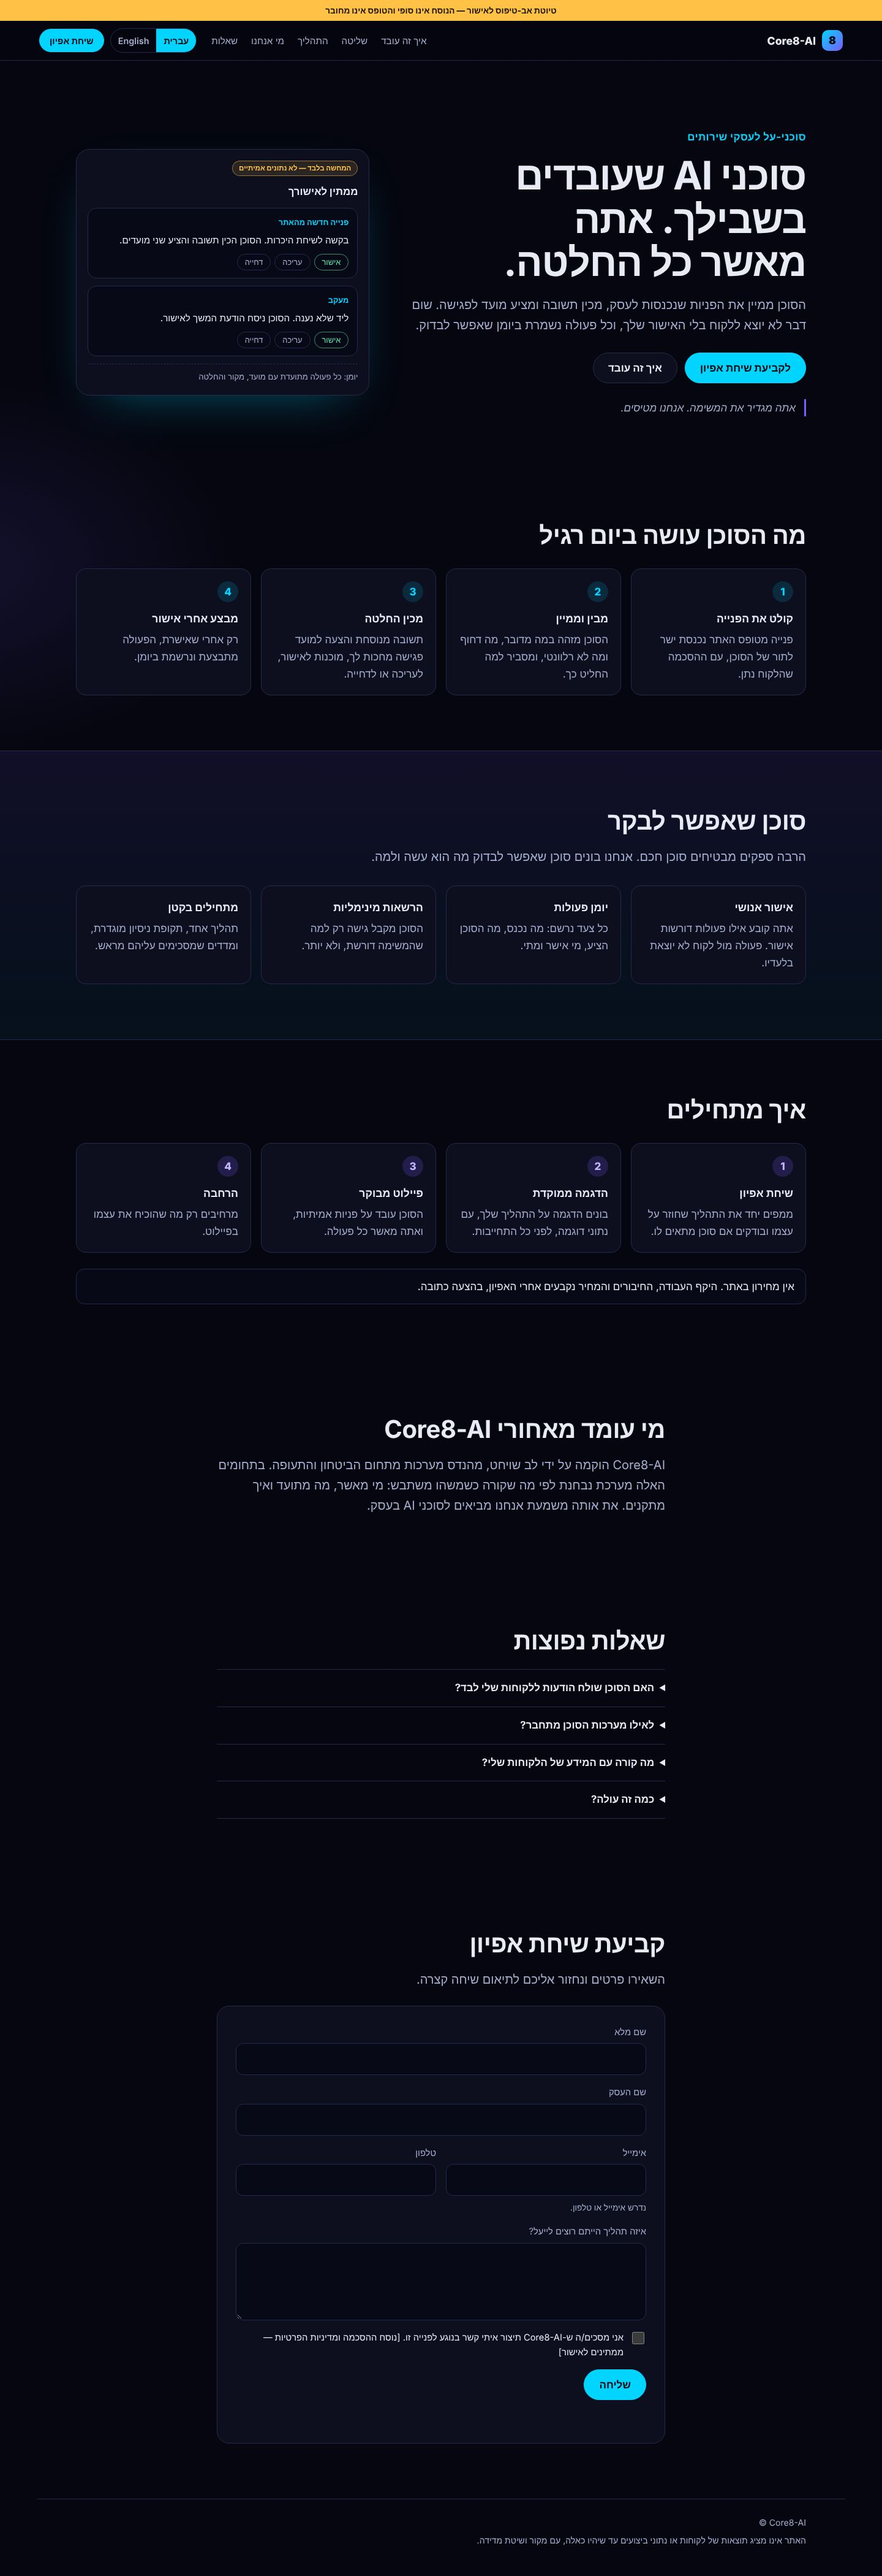
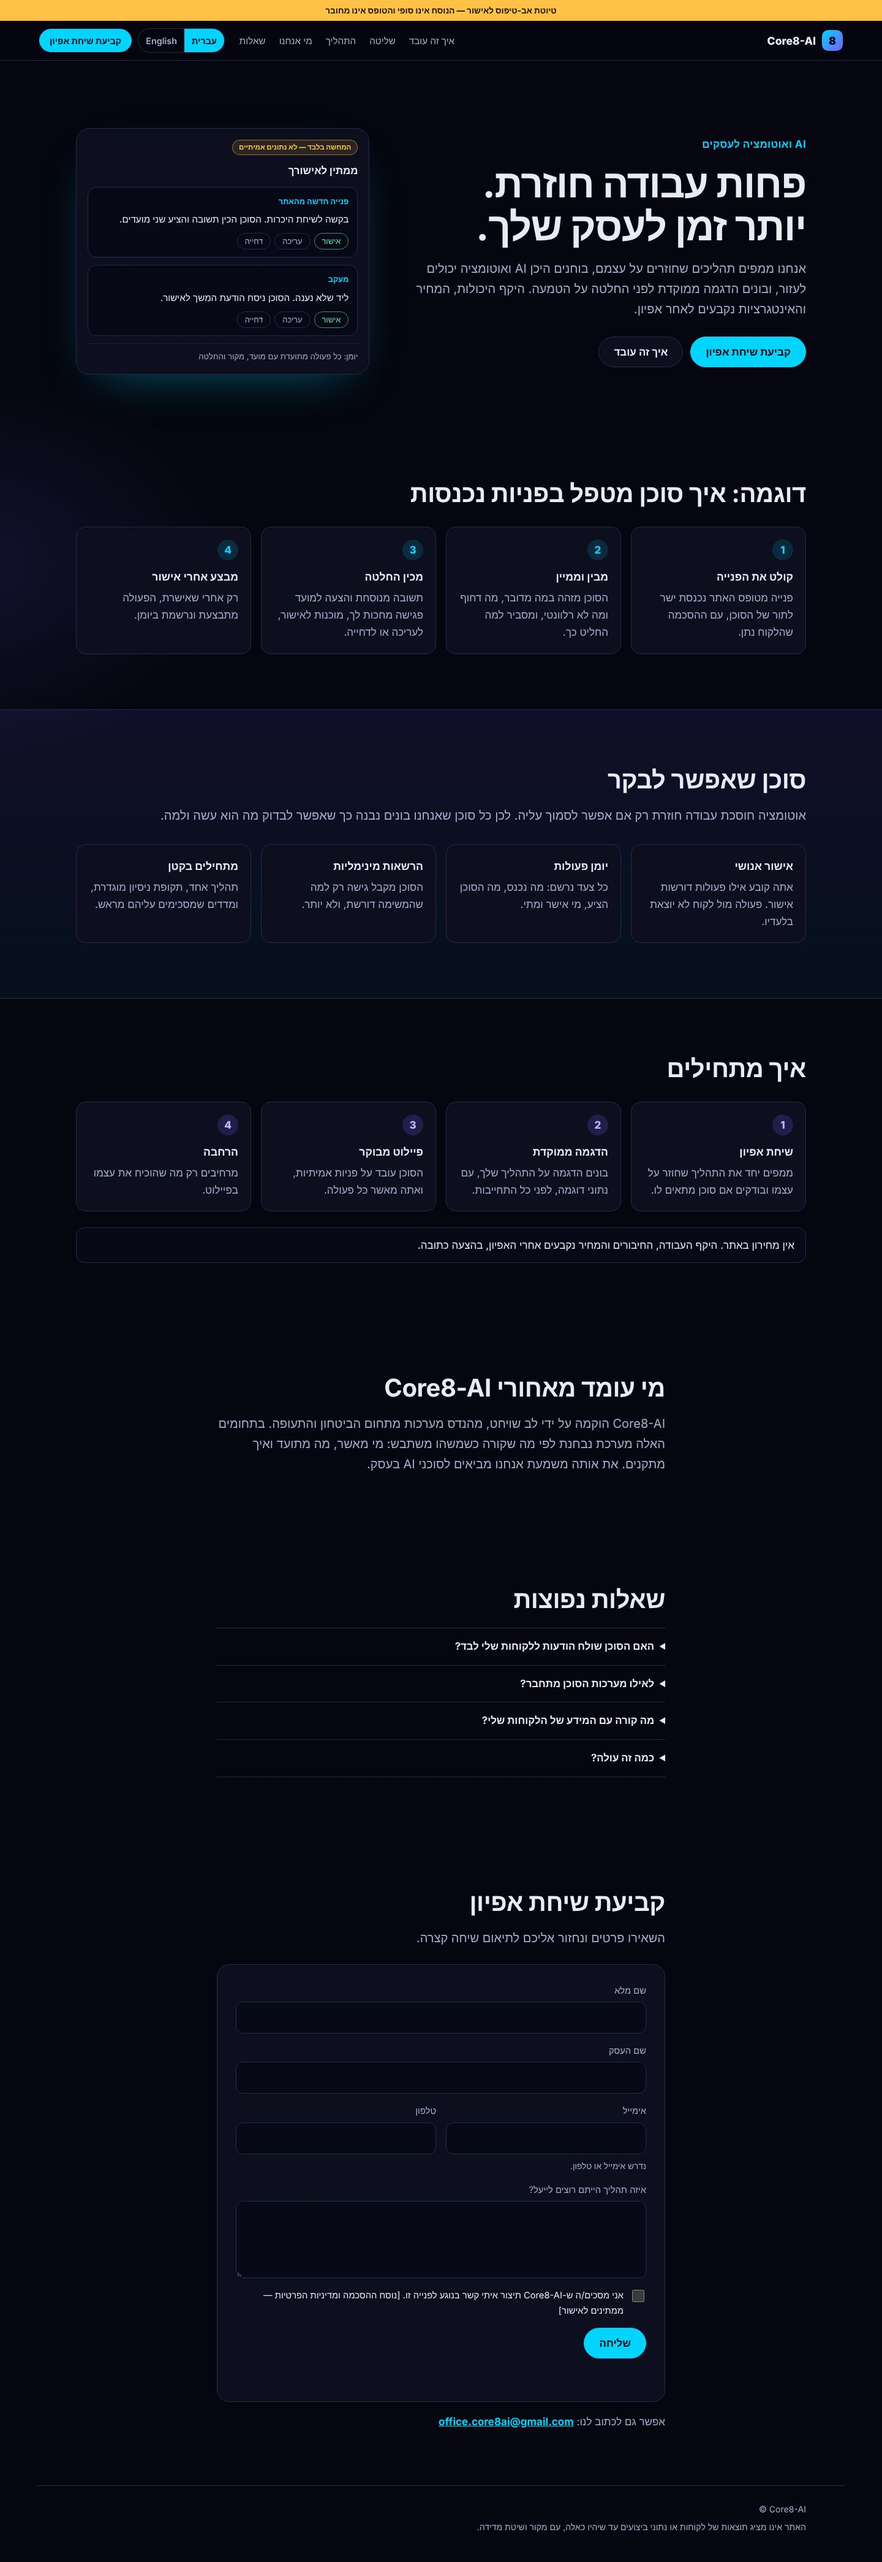
Landing prototype: use brand-brief headline and copy; add business email
Lev chose the docs/LEV_CORE8_BRAND_BRIEF.md (PR #21) direction. The hero
headline, supporting copy and primary CTA are now verbatim from that brief in
Hebrew and English, enforced by a test. The flight-metaphor line is removed.

Adds the business contact email as a mailto link. No phone or WhatsApp link:
the number is being replaced.

Claude-Session: https://claude.ai/code/session_01MNK6JQcFkiwtTubTmpKXfj

diff --git a/apps/landing/content.js b/apps/landing/content.js
@@ -1,6 +1,8 @@
 /*
  * Core8-AI landing page - DRAFT copy, Hebrew (primary) and English.
- * Status: proposed by Claude for Lev's review. Not approved copy.
+ * Headline, supporting copy and primary CTA are verbatim from
+ * docs/LEV_CORE8_BRAND_BRIEF.md (PR #21), chosen by Lev (recorded in PR #32).
+ * The remaining sections are Claude's draft and still need Lev's review.
  * Rules applied (from Lev's recorded decisions and docs/LEV_CORE8_BRAND_BRIEF.md):
  * no prices, no figures or percentages, no "24/7", no guarantees, no client
  * names, no claims of live integrations or results.
@@ -14,32 +16,31 @@
   return {
     langs: { he: { dir: 'rtl', label: 'עברית' }, en: { dir: 'ltr', label: 'English' } },
     // Set by the owner before launch. Empty = the form stays in preview mode.
-    config: { formEndpoint: '', consentTextId: '' },
+    config: { formEndpoint: '', consentTextId: '', email: 'office.core8ai@gmail.com' },
     strings: {
       he: {
-        'meta.title': 'Core8-AI — סוכני AI שעובדים בשבילך. אתה מאשר.',
-        'meta.description': 'Core8-AI בונה סוכני AI לעסקי שירותים: מיון פניות, הכנת תשובות והצעת פגישות, עם אישור אנושי ותיעוד של כל פעולה.',
+        'meta.title': 'Core8-AI — פחות עבודה חוזרת. יותר זמן לעסק שלך.',
+        'meta.description': 'אנחנו ממפים תהליכים שחוזרים על עצמם, בוחנים היכן AI ואוטומציה יכולים לעזור, ובונים הדגמה ממוקדת לפני החלטה על הטמעה.',
         'draft.banner': 'טיוטת אב-טיפוס לאישור — הנוסח אינו סופי והטופס אינו מחובר',
-        'nav.how': 'איך זה עובד', 'nav.control': 'שליטה', 'nav.process': 'התהליך', 'nav.founder': 'מי אנחנו', 'nav.faq': 'שאלות', 'nav.cta': 'שיחת אפיון',
+        'nav.how': 'איך זה עובד', 'nav.control': 'שליטה', 'nav.process': 'התהליך', 'nav.founder': 'מי אנחנו', 'nav.faq': 'שאלות', 'nav.cta': 'קביעת שיחת אפיון',
         'skip': 'דילוג לתוכן',
-        'hero.eyebrow': 'סוכני-על לעסקי שירותים',
-        'hero.title': 'סוכני AI שעובדים בשבילך. אתה מאשר כל החלטה.',
-        'hero.lead': 'הסוכן ממיין את הפניות שנכנסות לעסק, מכין תשובה ומציע מועד לפגישה. שום דבר לא יוצא ללקוח בלי האישור שלך, וכל פעולה נשמרת ביומן שאפשר לבדוק.',
-        'hero.cta': 'לקביעת שיחת אפיון', 'hero.cta2': 'איך זה עובד',
-        'hero.mission': 'אתה מגדיר את המשימה. אנחנו מטיסים.',
+        'hero.eyebrow': 'AI ואוטומציה לעסקים',
+        'hero.title': 'פחות עבודה חוזרת. יותר זמן לעסק שלך.',
+        'hero.lead': 'אנחנו ממפים תהליכים שחוזרים על עצמם, בוחנים היכן AI ואוטומציה יכולים לעזור, ובונים הדגמה ממוקדת לפני החלטה על הטמעה. היקף היכולות, המחיר והאינטגרציות נקבעים לאחר אפיון.',
+        'hero.cta': 'קביעת שיחת אפיון', 'hero.cta2': 'איך זה עובד',
         'mock.label': 'המחשה בלבד — לא נתונים אמיתיים',
         'mock.title': 'ממתין לאישורך',
         'mock.item1.kind': 'פנייה חדשה מהאתר', 'mock.item1.text': 'בקשה לשיחת היכרות. הסוכן הכין תשובה והציע שני מועדים.',
         'mock.item2.kind': 'מעקב', 'mock.item2.text': 'ליד שלא נענה. הסוכן ניסח הודעת המשך לאישור.',
         'mock.approve': 'אישור', 'mock.edit': 'עריכה', 'mock.reject': 'דחייה',
         'mock.log': 'יומן: כל פעולה מתועדת עם מועד, מקור והחלטה',
-        'how.title': 'מה הסוכן עושה ביום רגיל',
+        'how.title': 'דוגמה: איך סוכן מטפל בפניות נכנסות',
         'how.1.t': 'קולט את הפנייה', 'how.1.d': 'פנייה מטופס האתר נכנסת ישר לתור של הסוכן, עם ההסכמה שהלקוח נתן.',
         'how.2.t': 'מבין וממיין', 'how.2.d': 'הסוכן מזהה במה מדובר, מה דחוף ומה לא רלוונטי, ומסביר למה החליט כך.',
         'how.3.t': 'מכין החלטה', 'how.3.d': 'תשובה מנוסחת והצעה למועד פגישה מחכות לך, מוכנות לאישור, לעריכה או לדחייה.',
         'how.4.t': 'מבצע אחרי אישור', 'how.4.d': 'רק אחרי שאישרת, הפעולה מתבצעת ונרשמת ביומן.',
         'control.title': 'סוכן שאפשר לבקר',
-        'control.lead': 'הרבה ספקים מבטיחים סוכן חכם. אנחנו בונים סוכן שאפשר לבדוק מה הוא עשה ולמה.',
+        'control.lead': 'אוטומציה חוסכת עבודה חוזרת רק אם אפשר לסמוך עליה. לכן כל סוכן שאנחנו בונים נבנה כך שאפשר לבדוק מה הוא עשה ולמה.',
         'control.1.t': 'אישור אנושי', 'control.1.d': 'אתה קובע אילו פעולות דורשות אישור. פעולה מול לקוח לא יוצאת בלעדיו.',
         'control.2.t': 'יומן פעולות', 'control.2.d': 'כל צעד נרשם: מה נכנס, מה הסוכן הציע, מי אישר ומתי.',
         'control.3.t': 'הרשאות מינימליות', 'control.3.d': 'הסוכן מקבל גישה רק למה שהמשימה דורשת, ולא יותר.',
@@ -65,32 +66,32 @@
         'form.submit': 'שליחה',
         'form.err.name': 'נא למלא שם.', 'form.err.contact': 'נא למלא אימייל או טלפון תקינים.', 'form.err.consent': 'נדרשת הסכמה כדי לשלוח.',
         'form.preview': 'מצב תצוגה מקדימה: הטופס עדיין לא מחובר, ושום דבר לא נשלח.',
+        'contact.or': 'אפשר גם לכתוב לנו:',
         'footer.rights': 'Core8-AI', 'footer.note': 'האתר אינו מציג תוצאות של לקוחות או נתוני ביצועים עד שיהיו כאלה, עם מקור ושיטת מדידה.'
       },
       en: {
-        'meta.title': 'Core8-AI — AI agents that do the work. You approve.',
-        'meta.description': 'Core8-AI builds AI agents for service businesses: inquiry triage, drafted replies and proposed meetings, with human approval and a record of every action.',
+        'meta.title': 'Core8-AI — Less repetitive work. More time for your business.',
+        'meta.description': 'We map repetitive workflows, identify where AI and automation may help, and propose a scoped demonstration before implementation.',
         'draft.banner': 'Draft prototype for approval — copy is not final and the form is not connected',
-        'nav.how': 'How it works', 'nav.control': 'Control', 'nav.process': 'Process', 'nav.founder': 'About', 'nav.faq': 'FAQ', 'nav.cta': 'Discovery call',
+        'nav.how': 'How it works', 'nav.control': 'Control', 'nav.process': 'Process', 'nav.founder': 'About', 'nav.faq': 'FAQ', 'nav.cta': 'Book a discovery conversation',
         'skip': 'Skip to content',
-        'hero.eyebrow': 'Superagents for service businesses',
-        'hero.title': 'AI agents that do the work. You approve every decision.',
-        'hero.lead': 'The agent sorts the inquiries coming into your business, drafts a reply and proposes a meeting time. Nothing reaches a customer without your approval, and every action is kept in a log you can inspect.',
-        'hero.cta': 'Book a discovery call', 'hero.cta2': 'How it works',
-        'hero.mission': 'Set the mission. We fly it.',
+        'hero.eyebrow': 'AI and automation for business',
+        'hero.title': 'Less repetitive work. More time for your business.',
+        'hero.lead': 'We map repetitive workflows, identify where AI and automation may help, and propose a scoped demonstration before implementation. Capabilities, integrations, and pricing are confirmed during discovery.',
+        'hero.cta': 'Book a discovery conversation', 'hero.cta2': 'How it works',
         'mock.label': 'Illustration only — not real data',
         'mock.title': 'Waiting for your approval',
         'mock.item1.kind': 'New website inquiry', 'mock.item1.text': 'Request for an intro call. The agent drafted a reply and proposed two times.',
         'mock.item2.kind': 'Follow-up', 'mock.item2.text': 'A lead with no reply yet. The agent drafted a follow-up for approval.',
         'mock.approve': 'Approve', 'mock.edit': 'Edit', 'mock.reject': 'Reject',
         'mock.log': 'Log: every action recorded with time, source and decision',
-        'how.title': 'What the agent does on an ordinary day',
+        'how.title': 'Example: how an agent handles incoming inquiries',
         'how.1.t': 'Takes in the inquiry', 'how.1.d': 'An inquiry from the website form goes straight into the agent\'s queue, with the consent the customer gave.',
         'how.2.t': 'Understands and sorts', 'how.2.d': 'The agent works out what it is about, what is urgent and what is not relevant, and explains why.',
         'how.3.t': 'Prepares a decision', 'how.3.d': 'A drafted reply and a proposed meeting time wait for you, ready to approve, edit or reject.',
         'how.4.t': 'Acts after approval', 'how.4.d': 'Only after you approve is the action carried out and recorded in the log.',
         'control.title': 'An agent you can audit',
-        'control.lead': 'Many vendors promise a smart agent. We build one whose actions and reasons you can check.',
+        'control.lead': 'Automation only saves repetitive work if you can rely on it. So every agent we build is built so that you can check what it did and why.',
         'control.1.t': 'Human approval', 'control.1.d': 'You decide which actions need approval. Nothing customer-facing goes out without it.',
         'control.2.t': 'Action log', 'control.2.d': 'Every step is recorded: what came in, what the agent proposed, who approved and when.',
         'control.3.t': 'Least privilege', 'control.3.d': 'The agent gets access only to what the task needs, and no more.',
@@ -116,6 +117,8 @@
         'form.submit': 'Send',
         'form.err.name': 'Please enter your name.', 'form.err.contact': 'Please enter a valid email or phone number.', 'form.err.consent': 'Consent is required to send.',
         'form.preview': 'Preview mode: the form is not connected yet, and nothing was sent.',
+        'contact.or': 'אפשר גם לכתוב לנו:',
+        'contact.or': 'You can also write to us:',
         'footer.rights': 'Core8-AI', 'footer.note': 'This site shows no customer results or performance figures until they exist, with a source and a method.'
       }
     }

diff --git a/apps/landing/styles.css b/apps/landing/styles.css
@@ -49,7 +49,6 @@ button, input, textarea { font: inherit; color: inherit; }
 h1 { font-size: clamp(2.1rem, 5.4vw, 4rem); line-height: 1.1; letter-spacing: -0.02em; text-wrap: balance; }
 .lead { color: var(--muted); font-size: clamp(1.05rem, 1.6vw, 1.25rem); max-width: 62ch; margin-block-start: 18px; }
 .hero__cta { display: flex; flex-wrap: wrap; gap: 12px; margin-block-start: 28px; }
-.mission { margin-block-start: 26px; color: var(--muted); font-style: italic; border-inline-start: 3px solid var(--violet); padding-inline-start: 14px; }
 
 .mock { background: var(--raise); border: 1px solid var(--line); border-radius: 22px; padding: 18px; display: grid; gap: 12px; box-shadow: 0 30px 80px -40px rgba(0, 212, 255, 0.45); }
 .mock__label { justify-self: start; font-size: 0.72rem; font-weight: 800; color: var(--warn); border: 1px solid rgba(255, 194, 71, 0.5); background: rgba(255, 194, 71, 0.12); border-radius: 999px; padding: 2px 10px; }
@@ -96,6 +95,9 @@ textarea { resize: vertical; line-height: 1.5; }
 .status { min-height: 1.4em; font-weight: 600; }
 .status--error { color: var(--bad); }
 .status--info { color: var(--warn); }
+
+.mail { margin-block-start: 18px; color: var(--muted); }
+.mail a { color: var(--primary); font-weight: 700; }
 
 .footer { padding: 26px var(--pad) 46px; border-top: 1px solid var(--line); color: var(--muted); font-size: 0.88rem; display: grid; gap: 6px; max-width: 1320px; margin-inline: auto; }
 

diff --git a/apps/landing/index.html b/apps/landing/index.html
@@ -43,7 +43,6 @@
           <a class="btn btn--primary" href="#contact" data-i18n="hero.cta"></a>
           <a class="btn" href="#how" data-i18n="hero.cta2"></a>
         </div>
-        <p class="mission" data-i18n="hero.mission"></p>
       </div>
 
       <figure class="mock" aria-labelledby="mock-cap" data-testid="mock">
@@ -130,6 +129,7 @@
         <button type="submit" class="btn btn--primary" data-i18n="form.submit" data-testid="submit"></button>
         <p class="status" id="form-status" role="status" aria-live="polite" data-testid="form-status"></p>
       </form>
+      <p class="mail"><span data-i18n="contact.or"></span> <a id="contact-email" dir="ltr" data-testid="contact-email"></a></p>
     </section>
   </main>
 

diff --git a/apps/landing/app.js b/apps/landing/app.js
@@ -21,6 +21,9 @@
     Array.prototype.forEach.call(document.querySelectorAll('[data-lang]'), function (b) { b.setAttribute('aria-pressed', String(b.getAttribute('data-lang') === lang)); });
     var status = document.getElementById('form-status');
     status.textContent = statusKey ? t(statusKey) : '';
+    var mail = document.getElementById('contact-email');
+    mail.textContent = C.config.email;
+    mail.setAttribute('href', 'mailto:' + C.config.email);
   }
 
   function setStatus(key, kind) {

diff --git a/apps/landing/README.md b/apps/landing/README.md
@@ -11,29 +11,30 @@ replace the current site, which runs on a third-party closed platform. Open
 
 - Prices, figures, percentages, "24/7", guarantees, client names or results
   (enforced by `tests/static.test.cjs`).
-- Any contact detail, tracking script, font or asset from another domain.
+- Any phone number, tracking script, font or asset from another domain.
 - A working form. With `config.formEndpoint` empty the form validates and then
   says nothing was sent. There is no network code in the page.
 
 ## Decisions needed before launch (Lev)
 
-1. **Copy and positioning.** This draft leads with human approval and an audit
-   log ("an agent you can audit"). `docs/LEV_CORE8_BRAND_BRIEF.md` (PR #21,
-   draft) proposes a different headline. One has to be chosen.
+1. **Copy.** Lev chose the `docs/LEV_CORE8_BRAND_BRIEF.md` (PR #21) direction on
+   2026-11-19: headline, supporting copy and primary CTA are used verbatim
+   (enforced by a test). The other sections are still Claude's draft.
 2. **Consent wording and privacy policy.** The form shows a placeholder.
 3. **Form destination.** The platform already has a tested endpoint
    (`POST /api/public/lead-forms/{key}/submit`; see `docs/LAUNCH_READINESS.md`
    §9) but the platform has no production host. The field names here match it.
 4. **Hosting and DNS** for the page itself, and who controls the domain today.
-5. **Contact channels** to show (business email, WhatsApp), and the logo file.
+5. **Logo file**, and the phone/WhatsApp number once the new one is active.
+   The page shows the business email only.
 
 ## Tests
 
 ```
-npm test               # 6 static checks: copy rules, i18n parity, no network code, contrast
+npm test               # 7 static checks: copy rules, i18n parity, no network code, contrast
 npm run test:browser   # 6 browser checks, offline; needs Playwright and Chrome
 ```
 
 Last recorded run (2026-11-19, Node 22.23.5, Playwright 1.63.0, Chrome 153,
-Linux): 6 of 6 and 6 of 6 passed. Screenshots: `docs/evidence/landing-prototype/`.
+Linux): 7 of 7 and 6 of 6 passed. Screenshots: `docs/evidence/landing-prototype/`.
 Not tested: Firefox, Safari, real phones, screen readers.
